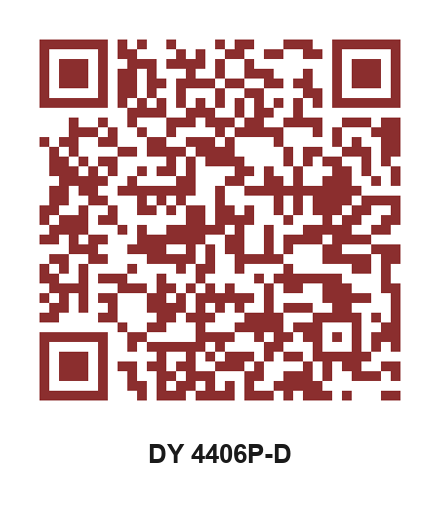
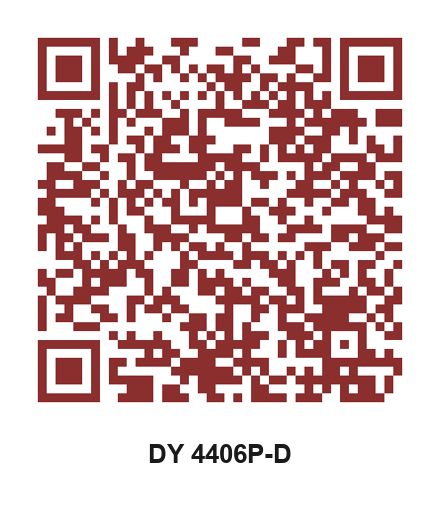
Update QR codes with live Vercel URL

diff --git a/generate-qr-with-labels.py b/generate-qr-with-labels.py
@@ -45,7 +45,7 @@ catalogs = [
 # ============================================================
 # IMPORTANT: Set this to your final website URL before printing
 # ============================================================
-BASE_URL = 'https://yourwebsite.com'  # <-- CHANGE THIS
+BASE_URL = 'https://blr-exhibition.vercel.app'
 
 QR_SIZE = 400          # QR code image size (px, square)
 LABEL_HEIGHT = 70       # space reserved for text below QR
